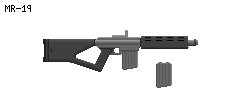
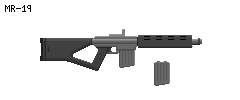
d

Changed region(s): [[0.1458, 0.27, 0.8458, 0.72], [0.6417, 0.6, 0.7292, 0.9]]

diff --git a/Technology/PlasmaticWeaponry.md b/Technology/PlasmaticWeaponry.md
@@ -39,8 +39,8 @@ It is a law in many nations that unsupervised weapons production is a severe cri
 - **Manufacturer:** KAG Armoury
 - **Core:** Mrokek
 - **Rate of Fire:** 660 rpm (auto)
-- **Length:** 775 mm (buttstock contracted), 910 mm (buttstock fully extended)
-- **Weight:** ~3.1 kg (unloaded), ~0.4 kg (battery)
+- **Length:** 810 mm (buttstock contracted), 945 mm (buttstock fully extended)
+- **Weight:** ~3.2 kg (unloaded), ~0.4 kg (battery)
 - **Projectile:** Contained plasma bolt (blue), 5 grams heated to 2000 kelvins and held with 3 kilojoules of energy
 - **Battery capacity:** 30 blasts before weakening, ~40 blasts before empty
 - **Relative Muzzle Velocity:** 500 m/s
